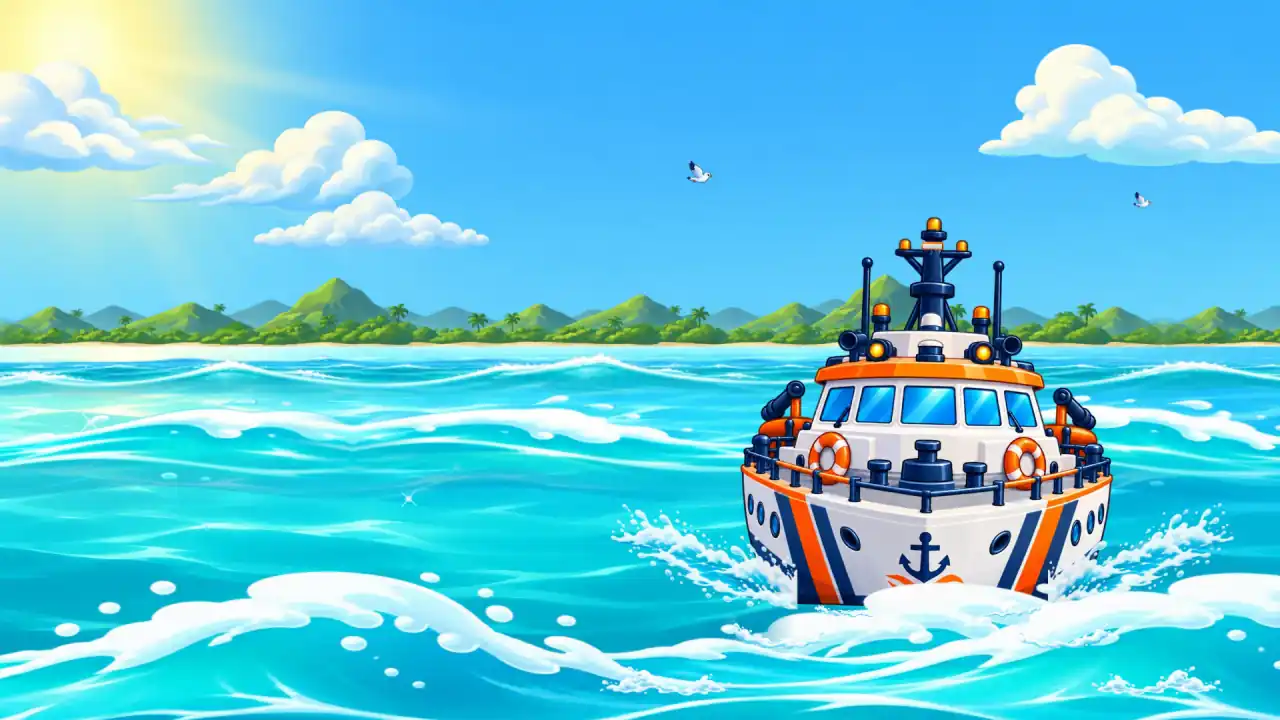
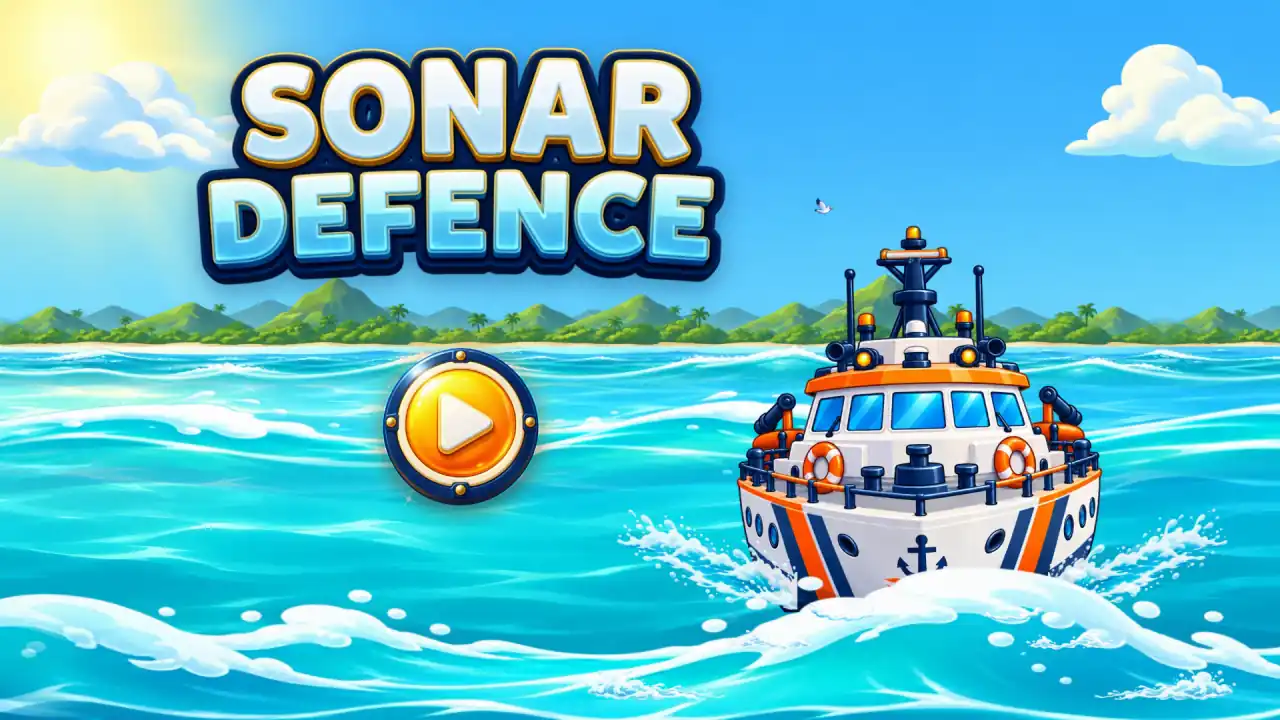
w

diff --git a/css/cover.css b/css/cover.css
@@ -87,10 +87,10 @@
 .cv-foam.r img{transform:scaleX(-1)}
 @keyframes cvFoam{0%{transform:translate(0,0) scale(.35);opacity:0}15%{opacity:1}75%{opacity:.95}100%{transform:translate(var(--dx),250px) scale(1.55);opacity:0}}
 
-/* the logo: drops in, then floats; the sonar pings pulse out from behind it */
-.cv-logo{left:262px;top:36px;width:858px;height:406px;will-change:transform;animation:cvLogoIn 1s cubic-bezier(.3,1.4,.5,1) .2s both,cvLogo 4s ease-in-out 1.2s infinite alternate}
+/* the logo floats; it is there from the first frame, in the still too (no drop-in: the cover comes all at once, QA). The sonar
+   pings pulse out from behind it */
+.cv-logo{left:262px;top:36px;width:858px;height:406px;will-change:transform;animation:cvLogo 4s ease-in-out infinite alternate}
 .cv-logo img{width:858px;height:406px;filter:drop-shadow(0 12px 18px rgba(0,30,70,.35))}
-@keyframes cvLogoIn{from{transform:translateY(-480px) scale(.8)}to{transform:translateY(0) scale(1)}}
 @keyframes cvLogo{from{transform:translateY(0) rotate(-.6deg)}to{transform:translateY(-12px) rotate(.6deg)}}
 #title .pings{left:691px;top:240px}
 
@@ -105,14 +105,17 @@
 /* until its pictures are decoded the title is its navy frame (no picture popping in, no stutter while they decode), then the
    art fades in and the entrance starts from its first frame (levels.js reveal(), QA bug 1) */
 #title .art{transition:opacity .4s ease-out}
-/* the cover from the first frame: a still picture of it under the art while the art loads and decodes, instead of a blank blue
-   screen (QA). A sharp 1280×720 still (poster.webp, 51 KB, preloaded first in index.html) over a 96×54 one inlined below (1.5 KB)
-   that covers only the moment before the sharp one arrives (QA: the small one alone looked blurred on tablets); the art fades in over them */
+/* the whole cover from the first frame, logo and Play included: a still picture of it under the art while the art loads and decodes,
+   instead of a blank blue screen or the cover arriving piece by piece (QA). A sharp 1280×720 still (poster.webp, preloaded first in
+   index.html) over a 96×54 one inlined below (1.8 KB) that covers only the moment before the sharp one arrives (QA: the small one
+   alone looked blurred on tablets); the art fades in over them, its loops starting from the frame the still shows.
+   (tools: the stills are screenshots of the cover at that first frame) */
 #title{background:url(../assets/img/cover/poster.webp) center/100% 100% no-repeat,#5cc0f5 var(--poster) center/100% 100% no-repeat}
 /* …and before the stage is sized to the screen (the first frame, while index.html is still being read) the page itself shows it,
    letterboxed like the stage, and the unsized stage stays hidden */
[2 lines of base64/hex data omitted]
 body.booting{background:url(../assets/img/cover/poster.webp) center/contain no-repeat,#04121f var(--poster) center/contain no-repeat}
 #stage:not([style]){visibility:hidden}
-#title.wait .art,#title.wait .pings,#title.wait #start{opacity:0}
+#title.wait .art,#title.wait .pings,#title.wait #start{opacity:0}   /* (Play is in the still meanwhile, and already takes the tap) */
+#title #start.early{opacity:1;transform:scale(.95)}   /* tapped before the scripts ran: it shows pressed until the game starts (index.html) */
 #title.wait .art *,#title.wait .pings i{animation-play-state:paused!important}

diff --git a/index.html b/index.html
@@ -87,6 +87,7 @@
   <div class="overlay hidden" id="banner"><div class="rings"><i></i><i></i><i></i></div><div class="card"><div class="k" id="bk"></div><div class="t" id="bt"></div><div class="s" id="bs"></div></div></div>
   <div class="overlay hidden" id="done"><div class="card"><div class="t" id="dt"></div><div class="s" id="ds"></div><div class="stars" id="dstars"></div><div class="chain" id="dchain"></div><div class="cta" id="dcta">Next mission</div></div></div>
   <div class="overlay wait" id="title"><div class="art" role="img" aria-label="Sonar Defence: the Coast Guard ship sails towards us"><div class="cv-sky"></div><img class="cv-cloud c1" src="assets/img/cover/cloud_1.webp" alt=""><img class="cv-cloud c2" src="assets/img/cover/cloud_2.webp" alt=""><img class="cv-cloud c3" src="assets/img/cover/cloud_3.webp" alt=""><img class="cv-cloud c4" src="assets/img/cover/cloud_4.webp" alt=""><div class="cv-gull g1"><img src="assets/img/cover/gull.webp" alt=""></div><div class="cv-gull g2"><img src="assets/img/cover/gull.webp" alt=""></div><div class="cv-islands"></div><div class="cv-sea"></div><i class="cv-glint" style="left:371px;top:578px;animation-delay:-1.0s"></i><i class="cv-glint" style="left:89px;top:558px;animation-delay:-2.1s"></i><i class="cv-glint" style="left:136px;top:633px;animation-delay:-1.5s"></i><i class="cv-glint" style="left:559px;top:594px;animation-delay:-0.1s"></i><i class="cv-glint" style="left:484px;top:647px;animation-delay:-0.2s"></i><i class="cv-glint" style="left:132px;top:681px;animation-delay:-1.1s"></i><i class="cv-glint" style="left:619px;top:571px;animation-delay:-2.5s"></i><i class="cv-glint" style="left:685px;top:700px;animation-delay:-1.5s"></i><i class="cv-glint" style="left:103px;top:687px;animation-delay:-1.5s"></i><i class="cv-glint" style="left:90px;top:596px;animation-delay:-0.1s"></i><i class="cv-glint" style="left:176px;top:614px;animation-delay:-1.1s"></i><i class="cv-glint" style="left:593px;top:570px;animation-delay:-1.5s"></i><i class="cv-glint" style="left:613px;top:748px;animation-delay:-1.8s"></i><i class="cv-glint" style="left:145px;top:688px;animation-delay:-1.5s"></i><div class="cv-band far"><i></i></div><div class="cv-band mid"><i></i></div><div class="cv-ship"><img src="assets/img/cover/ship_front.webp" alt=""><img class="radar" src="assets/img/cover/radar.webp" alt=""></div><div class="cv-spray l"><img src="assets/img/cover/bow_spray.webp" alt=""></div><div class="cv-spray r"><img src="assets/img/cover/bow_spray.webp" alt=""></div><div class="cv-wash"></div><div class="cv-band near"><i></i></div><div class="cv-foam l" style="animation-delay:-0.00s"><img src="assets/img/cover/foam_1.webp" alt=""></div><div class="cv-foam l" style="animation-delay:-0.85s"><img src="assets/img/cover/foam_2.webp" alt=""></div><div class="cv-foam l" style="animation-delay:-1.70s"><img src="assets/img/cover/foam_3.webp" alt=""></div><div class="cv-foam l" style="animation-delay:-2.55s"><img src="assets/img/cover/foam_4.webp" alt=""></div><div class="cv-foam r" style="animation-delay:-0.00s"><img src="assets/img/cover/foam_1.webp" alt=""></div><div class="cv-foam r" style="animation-delay:-0.85s"><img src="assets/img/cover/foam_2.webp" alt=""></div><div class="cv-foam r" style="animation-delay:-1.70s"><img src="assets/img/cover/foam_3.webp" alt=""></div><div class="cv-foam r" style="animation-delay:-2.55s"><img src="assets/img/cover/foam_4.webp" alt=""></div><div class="cv-logo"><img src="assets/img/cover/logo.webp" alt=""></div></div><div class="pings"><i></i><i></i><i></i></div><div class="logo">SONAR DEFENCE</div><div class="sub2">Guard the sea route · Integers on the navigation scale</div><div id="start" role="button" tabindex="0" aria-label="Start the game" title="Play"><svg viewBox="0 0 100 100" aria-hidden="true"><path d="M38 25.5c0-4.2 4.6-6.8 8.2-4.6l34.6 21.6c3.4 2.1 3.4 7 0 9.1L46.2 73.2C42.6 75.4 38 72.8 38 68.6z"/></svg><i class="shine"></i></div></div>
+  <script>document.getElementById('start').onclick = function () { window.SD_PLAY = 1; this.classList.add('early'); };   /* Play tapped before the scripts have run (the cover's still shows first): levels.js starts the game as soon as it is in */</script>
 </div>
 <script src="js/gsap.min.js"></script>
 <script src="js/lang_hi.js"></script>

diff --git a/js/levels.js b/js/levels.js
@@ -519,14 +519,14 @@
     addEventListener('keydown', e => { if ((e.key === 'Enter' || e.key === ' ') && e.target.closest && e.target.closest('#start')) return; sayName(true); seaOn(); });
   }
   SD.onHold(on => { for (const a of [sea, nameVo]) { if (on && !a.paused) { a._held = true; a.pause(); } else if (!on && a._held) { a._held = false; if (onTitle()) a.play().catch(() => {}); } } });   // (the game paused: QA bugs 2, 3)
-  /* the title appears whole (QA bug 1): the navy frame shows until its pictures are decoded (at most 2.5 s), then it fades in and its
-     entrance plays (the logo drops in, Play pops up, the name is said) on a quiet page; the rest of the game loads after that (core.js) */
+  /* the title comes all at once (QA): a still of the whole cover, logo and Play included, shows from the first frame (css/cover.css) and
+     Play works from then on; once the pictures are decoded (at most 2.5 s) the moving cover fades in over the still, from the same
+     frame, so nothing drops or pops in. Then the name is said and the rest of the game loads (core.js) */
   const reveal = () => {
-    const t = $('#title'); if (!t.classList.contains('wait')) return; t.classList.remove('wait'); SD.titleShown();
-    gsap.from('#start', { scale: 0, rotation: -120, opacity: 0, duration: .9, delay: 1.1, ease: 'back.out(2.2)' });
-    gsap.fromTo('#start', { scale: 1 }, { scale: 1.06, duration: .8, yoyo: true, repeat: -1, ease: 'sine.inOut', delay: 2.1, immediateRender: false });   // breathes once it has popped in
-    if (Q.get('autostart') !== '1') { seaOn(); gsap.delayedCall(1.3, () => sayName()); }   // (after the logo has dropped in)
-    gsap.delayedCall(2.4, SD.titleSettled);
+    const t = $('#title'); if (!t.classList.contains('wait') || $('#start')._go) return; t.classList.remove('wait'); SD.titleShown();
+    gsap.fromTo('#start', { scale: 1 }, { scale: 1.06, duration: .8, yoyo: true, repeat: -1, ease: 'sine.inOut', delay: .5, immediateRender: false });   // Play breathes
+    if (Q.get('autostart') !== '1') { seaOn(); gsap.delayedCall(.4, () => sayName()); }
+    gsap.delayedCall(1, SD.titleSettled);
   };
   if (Q.get('autostart') === '1') reveal();
   else {
@@ -536,6 +536,7 @@
     Promise.race([Promise.all(keep.map(i => i.decode().catch(() => {}))), new Promise(r => setTimeout(r, 2500))])
       .then(() => requestAnimationFrame(() => requestAnimationFrame(reveal)));
   }
+  if (window.SD_PLAY) $('#start').onclick();   // (Play was tapped on the still, before this script ran: index.html)
   $('#start').onkeydown = e => { if (e.key === 'Enter' || e.key === ' ') { e.preventDefault(); $('#start').onclick(); } };
   if (Q.get('autostart') === '1') {   // a QA / editor jump: a quiet sonar screen covers the page while it loads, then the level fades in
     const boot = document.createElement('div'); boot.id = 'boot'; boot.innerHTML = '<i></i><i></i><span>SONAR CONTACT…</span>'; $('#stage').appendChild(boot);

diff --git a/js/core.js b/js/core.js
@@ -295,9 +295,9 @@
   for (const k in SHEET) SHEET[k].wait = [];
   const LOW = (navigator.deviceMemory && navigator.deviceMemory <= 4) || matchMedia('(pointer: coarse)').matches || Math.min(screen.width, screen.height) < 700;
   /* Loading in order of need, so the first screens are not slowed by art they don't show:
-     1 · the title's art (in the page itself, highest priority: index.html). The title shows once it is decoded and plays its
-         entrance on a quiet page: nothing else is fetched or decoded until then (QA bug 1). levels.js calls SD.titleShown()
-         when it appears and SD.titleSettled() when its entrance is over (or Play is pressed).
+     1 · the title's art (in the page itself, highest priority: index.html). Until it is decoded a still of the whole cover
+         shows (Play already works); then the moving cover fades in on a quiet page: nothing else is fetched or decoded until then (QA bug 1). levels.js calls SD.titleShown()
+         when it appears and SD.titleSettled() a second later (or when Play is pressed).
      2 · the story's art (the hook comes right after Play), decoded in the background once the title is up — READY waits for it
      3 · LATER, once the title has settled: Meera's sheet (first needed at Level 1's intro), the rest of the game art, the sounds
          (the story's first, the missions' music last), one at a time in the browser's idle moments. Decoded images are kept (KEEP)
@@ -306,7 +306,7 @@
   setTimeout(() => { shown(); settled(); }, 8000);   // (never later than this, whatever happens)
   const idle = () => new Promise(r => window.requestIdleCallback ? requestIdleCallback(() => r(), { timeout: 700 }) : setTimeout(r, 50));
   const KEEP = [], art = (dir, n) => { const i = new Image(); i.src = 'assets/img/' + dir + n + '.webp'; KEEP.push(i); return i.decode().catch(() => {}); };
-  const STORY = LOW ? Promise.resolve() : Promise.race([SHOWN.then(() => new Promise(r => setTimeout(r, 900))), SETTLED])   // (after the logo has landed)
+  const STORY = LOW ? Promise.resolve() : Promise.race([SHOWN.then(() => new Promise(r => setTimeout(r, 900))), SETTLED])   // (a moment after the title is up)
     .then(() => Promise.all(['bg_under', 'ship', 'sub_bay', 'missile_red', 'missile_blue', 'meera_shocked', 'meera_determined'].map(n => art('story/', n))));
   /* every font face the game uses is loaded up front (Hindi: its Devanagari faces too). A face loads only when text first uses it, so
      a feedback line in a face not yet used came up in the fallback font for a moment, the first time only (QA bug 28). */

diff --git a/README.md b/README.md
@@ -66,6 +66,9 @@ The original art pack (PNG sources, concepts, briefs) is not needed by the game;
 - **Launcher label for each sign:** it shows with the first launch of each sign in Level 1 (NEGATIVE in mission 1, POSITIVE the first time the launcher switches to +), then the badge alone.
 - **Level 2 number line lag:** each swinging buoy carried its drop-shadows on its own GPU layer, so the GPU re-blurred ~20 buoys × 2–3 shadows every frame (Level 1 has none of this). The picture and shadows are now on a still `::before` inside the swinging layer (drawn once), and the rope's texture slides by transform during pans instead of repainting. Same look.
 
+## QA round 6 (cover all at once)
+- **The cover comes whole:** the stills (`assets/img/cover/poster.webp` 62 KB and the 96×54 inline `--poster`) now include the logo and Play, taken at the frame the cover's loops start from; Play takes the tap from the first frame. When the moving cover is decoded it fades in over the still with no drop-in or pop-in (the logo's drop and Play's pop are gone), and the rest of the game starts loading 1 s later (was 2.4 s). To remake the stills after changing the cover: screenshot `#title` at 1920×1080 with its animations at `currentTime = 0` (pings, Play's rings and shine hidden), then `cwebp -resize 1280 0 -q 45` and `-resize 96 54 -q 60`.
+
 ## Deploy (Vercel)
 It is a static site: no build step. Import the repo (or drag this folder into Vercel) and keep **Framework Preset: Other**, no build command, **Root Directory `./`**. `vercel.json` pins the preset; `.vercelignore` leaves `tools/` and the docs out of the upload. If the Vercel project was created while the game lived in `Sonar_Defence_Game/`, set its Root Directory back to `./`. The layout editor's Save needs `tools/dev_server.py`, so on Vercel it offers Copy / Download instead.
 
